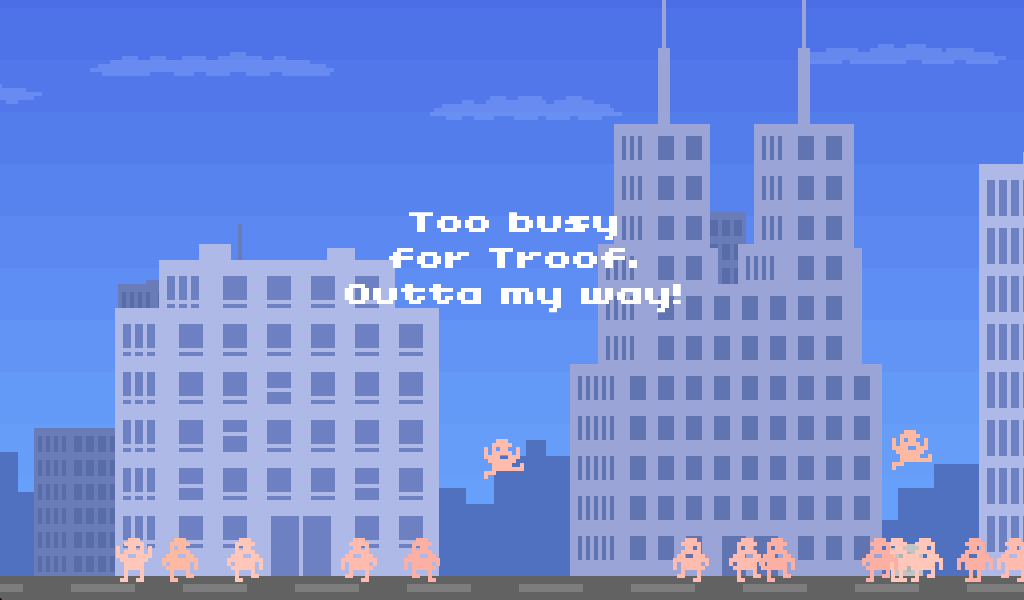
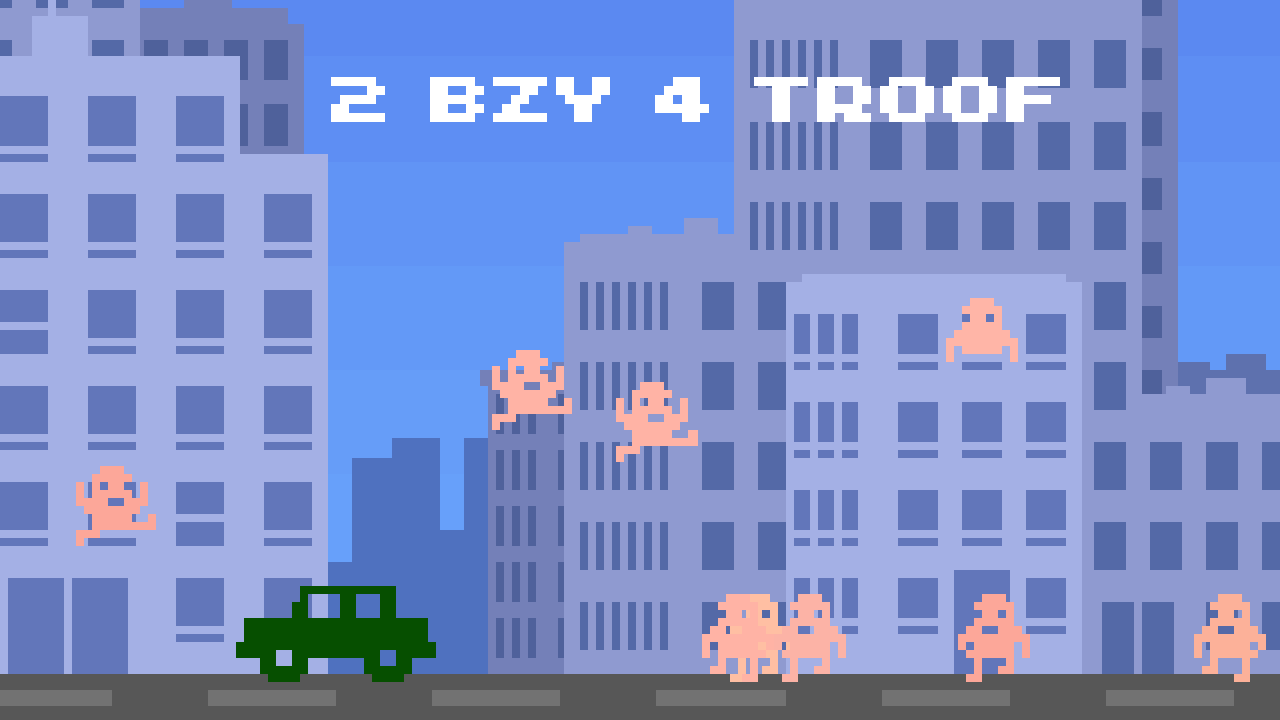
[md] Updated for upcoming steam release: changed release date to new release date, added purchase links, updated screenshot section with new screenshots

diff --git a/_posts/2012-12-18-potatoman-seeks-the-troof.md b/_posts/2012-12-18-potatoman-seeks-the-troof.md
@@ -60,10 +60,15 @@ Potatoman Seeks the Troof Press Kit  {#presskit-title}
 =========================
 {:.no_toc}
 
-You have arrived at the Potatoman Seeks the Troof Press Page. Here you should find any info you might need to post articles or get more informed about Potatoman and his adventure. If there's any other information you need, or would like it in a different format, let us know and we'll make it available.
 
+Description  {#description}
+------------
 
+{% include images.md param="image2" %}
 
+In a world where the Troof is an unanswered question, Potatoman quests through the riddle. Through desert wastelands, thick forests, and dystopian cities: nothing is what it seems. With only his wits, his jump, and a question, Potatoman must potato forth through quirky and challenging platforming puzzles!
+
+Jump, run, and engage in humorous potatosophical debate as your avatar dies a thousand deaths... encounter spud-shredding baddies and quick platformer pacing in this new Pixeljam release. Don't end up a potato pancake... go forward and seek the Troof!
 
  Fact Sheet {#factsheet}
 ------------
@@ -79,7 +84,7 @@ Pixeljam
    * [Mac App Store](http://itunes.apple.com/us/app/potatoman-seeks-the-troof/id593593154?mt=12) -->
 
 * **Release Date**:
-December 18th, 2012
+December 3rd, 2014 Major Update Release (Original Release Date December 18th, 2012)
 
 
 * **Platforms**:
@@ -90,13 +95,14 @@ Steam / PC / Mac / Linux / Ouya
 [SeekTheTroof.com](//seekthetroof.com)
 
 * **Price**:
-USD 3.00
+USD 3.99
 
 * **Press Contact**:
 press@pixeljam.com
 
 * Purchase Links
   * [Humble Store](https://www.humblebundle.com/store/p/potatomanseeksthetroof_storefront)
+  * [Steam](http://store.steampowered.com/app/328500/)
   * [Ouya](https://www.ouya.tv/game/Potato-Man-Seeks-the-Troof/)
   * [Fastspring](http://sites.fastspring.com/pixeljam/product/potatoman)
   * [Mac App Store](http://itunes.apple.com/us/app/potatoman-seeks-the-troof/id593593154?mt=12)
@@ -110,14 +116,6 @@ You can download a pack (.zip) of [logos here](//logos.zip) or [screenshots here
 
 
 
-Description  {#description}
-------------
-
-{% include images.md param="image2" %}
-
-In a world where the Troof is an unanswered question, Potatoman quests through the riddle. Through desert wastelands, thick forests, and dystopian cities: nothing is what it seems. With only his wits, his jump, and a question, Potatoman must potato forth through quirky and challenging platforming puzzles!
-
-Jump, run, and engage in humorous potatosophical debate as your avatar dies a thousand deaths... encounter spud-shredding baddies and quick platformer pacing in this new Pixeljam release. Don't end up a potato pancake... go forward and seek the Troof!
 
 
 
@@ -221,14 +219,14 @@ Screenshots {#screenshots}
 
 <div class="grid screenshots" markdown="1">
 
-[![Screenshot 1]({{site.baseurl}}/images/potatoman/troof-screenshot-mountain.png)]({{site.baseurl}}/images/potatoman/troof-screenshot-mountain.png){:.lightbox}
+[![Screenshot 1]({{site.baseurl}}/images/potatoman/troof-screenshot-l501.png)]({{site.baseurl}}/images/potatoman/troof-screenshot-l501.png){:.lightbox}
 [![Screenshot 2]({{site.baseurl}}/images/potatoman/troof-screenshot-city.png)]({{site.baseurl}}/images/potatoman/troof-screenshot-city.png){:.lightbox}
 [![Screenshot 3]({{site.baseurl}}/images/potatoman/troof-screenshot-forest-owl.png)]({{site.baseurl}}/images/potatoman/troof-screenshot-forest-owl.png){:.lightbox}
-[![Screenshot 4]({{site.baseurl}}/images/potatoman/troof-screenshot-forest-birds.png)]({{site.baseurl}}/images/potatoman/troof-screenshot-forest-birds.png){:.lightbox}
-[![Screenshot 5]({{site.baseurl}}/images/potatoman/troof-screenshot-title01.png)]({{site.baseurl}}/images/potatoman/troof-screenshot-title01.png){:.lightbox}
-[![Screenshot 6]({{site.baseurl}}/images/potatoman/PM_Screen2.png)]({{site.baseurl}}/images/potatoman/PM_Screen2.png){:.lightbox}
-[![Screenshot 7]({{site.baseurl}}/images/potatoman/PM_Screen3.png)]({{site.baseurl}}/images/potatoman/PM_Screen3.png){:.lightbox}
-[![Screenshot 8]({{site.baseurl}}/images/potatoman/PM_Screen4.png)]({{site.baseurl}}/images/potatoman/PM_Screen4.png){:.lightbox}
+[![Screenshot 4]({{site.baseurl}}/images/potatoman/troof-screenshot-desert.png)]({{site.baseurl}}/images/potatoman/troof-screenshot-desert.png){:.lightbox}
+<!-- [![Screenshot 5]({{site.baseurl}}/images/potatoman/troof-screenshot-forest-birds.png)]({{site.baseurl}}/images/potatoman/troof-screenshot-forest-birds.png){:.lightbox} -->
+<!-- [![Screenshot 6]({{site.baseurl}}/images/potatoman/PM_Screen2.png)]({{site.baseurl}}/images/potatoman/PM_Screen2.png){:.lightbox} -->
+<!-- [![Screenshot 7]({{site.baseurl}}/images/potatoman/PM_Screen3.png)]({{site.baseurl}}/images/potatoman/PM_Screen3.png){:.lightbox} -->
+<!-- [![Screenshot 8]({{site.baseurl}}/images/potatoman/PM_Screen4.png)]({{site.baseurl}}/images/potatoman/PM_Screen4.png){:.lightbox} -->
 
 
 
